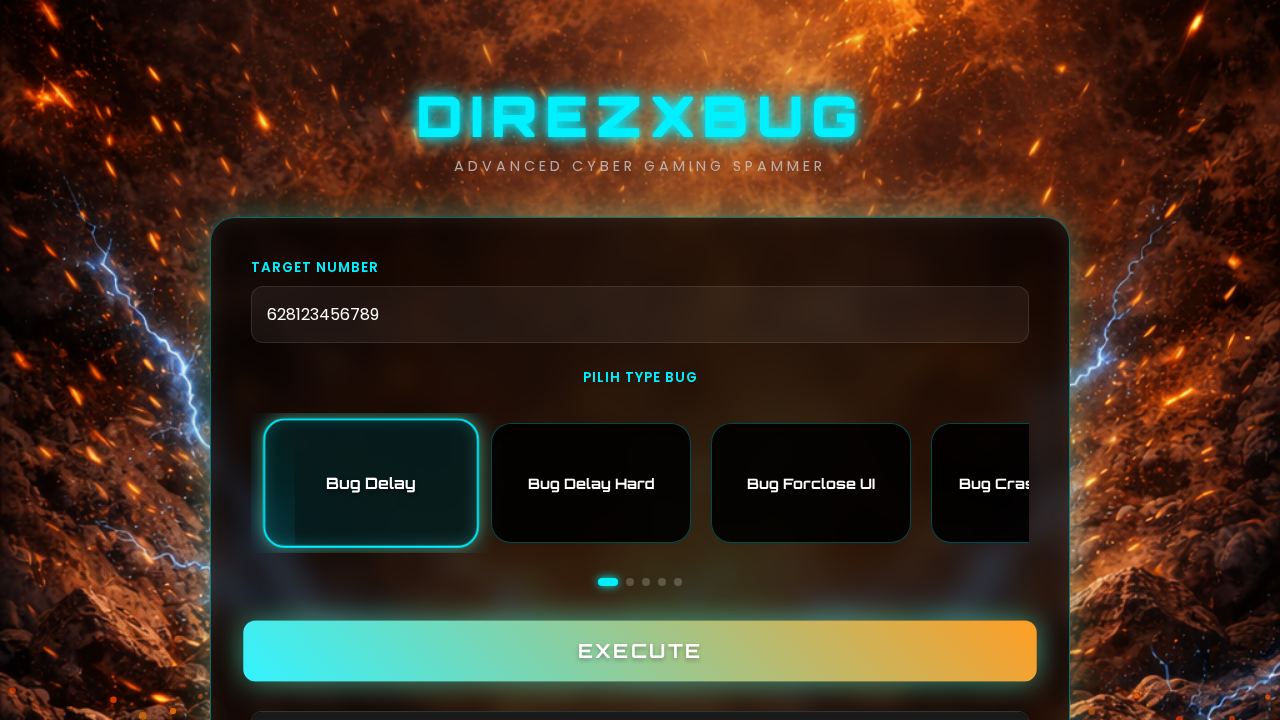
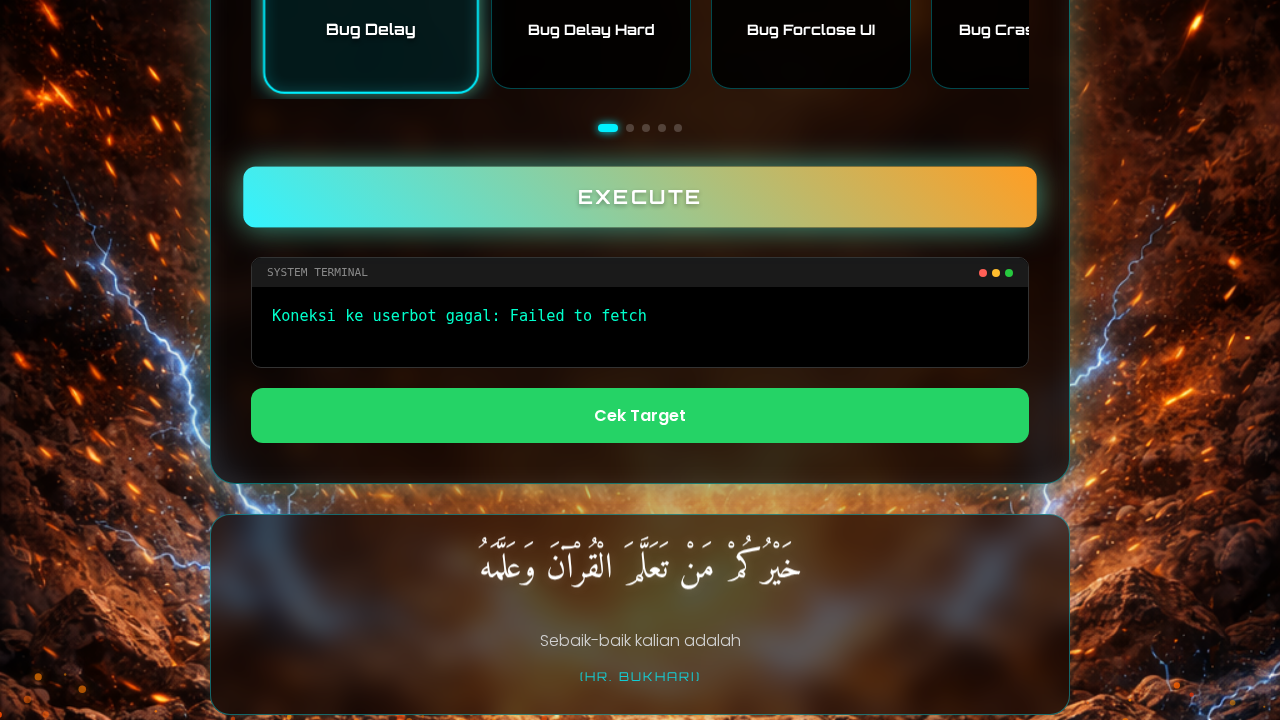
fix: resolve connectivity issues between frontend and backend

diff --git a/script.js b/script.js
@@ -151,38 +151,54 @@ bugCommands.spamdelay = bugCommands.force;
 // FUNCTION TETAP
 function kirim(){
   console.log("EXECUTE CLICKED");
-  const target = document.getElementById("target").value;
-  if (!target) return;
+  const targetInput = document.getElementById("target");
+  const target = targetInput ? targetInput.value.trim() : "";
+  const resultDiv = document.getElementById("result");
+
+  if (!target) {
+    if (resultDiv) resultDiv.innerText = "Masukkan Nomor Target!";
+    return;
+  }
 
   const bug = selectedBug;
   const commands = bugCommands[bug] || [];
 
-  console.log(target, commands);
+  const payload = {
+    target: target,
+    commands: commands
+  };
 
-  let fullResult = "";
-  commands.forEach(cmd => {
-    fullResult += `${cmd} ${target}\n`;
-  });
+  console.log("SENDING PAYLOAD:", payload);
+  if (resultDiv) resultDiv.innerText = "Sending request...";
 
   fetch("http://127.0.0.1:5000/execute",{
     method:"POST",
     headers:{"Content-Type":"application/json"},
-    body: JSON.stringify({
-      target: target,
-      commands: commands
-    })
+    body: JSON.stringify(payload)
   })
-  .then(res => res.json())
-  .then(() => {
-    document.getElementById("result").innerText = "Berhasil dikirim ke userbot";
+  .then(res => {
+    console.log("SERVER RESPONSE STATUS:", res.status);
+    if (!res.ok) {
+        throw new Error("HTTP error! status: " + res.status);
+    }
+    return res.json();
+  })
+  .then(data => {
+    console.log("SERVER DATA:", data);
+    if (resultDiv) {
+        resultDiv.innerText = data.message || data.status || "Berhasil dikirim ke userbot";
+    }
   })
   .catch(err => {
-    document.getElementById("result").innerText = "Koneksi ke userbot gagal";
+    console.error("FETCH ERROR:", err);
+    if (resultDiv) resultDiv.innerText = "Koneksi ke userbot gagal: " + err.message;
   });
 
   let wa = document.getElementById("waLink");
-  wa.style.display = "block";
-  wa.href = "https://wa.me/" + target;
+  if (wa) {
+    wa.style.display = "block";
+    wa.href = "https://wa.me/" + target;
+  }
 }
 
 // Hadith Random Feature

diff --git a/verify_execute.py b/verify_execute.py
@@ -18,13 +18,13 @@ async def run():
         page.on("console", lambda msg: console_logs.append(msg.text))
 
         await page.click(".execute-btn")
-        await asyncio.sleep(0.5)
+
+        # Check for error message in terminal
+        await page.wait_for_function('document.getElementById("result").innerText === "Masukkan Nomor Target!"')
 
         assert "EXECUTE CLICKED" in console_logs
-        # Since it returns early, there should NOT be a second log with target/commands
-        assert len([log for log in console_logs if "EXECUTE CLICKED" in log]) == 1
-        # Check that it didn't try to fetch or log more
-        assert len(console_logs) == 1
+        # Since it returns early, there should NOT be a second log with SENDING PAYLOAD
+        assert not any("SENDING PAYLOAD" in log for log in console_logs)
 
         # 2. Test successful execution
         # Mock the fetch
@@ -38,19 +38,18 @@ async def run():
         await page.click(".execute-btn")
 
         # Wait for terminal update
-        await page.wait_for_function('document.getElementById("result").innerText === "Berhasil dikirim ke userbot"')
+        await page.wait_for_function('document.getElementById("result").innerText.includes("Berhasil dikirim ke userbot") || document.getElementById("result").innerText === "ok"')
 
         assert "EXECUTE CLICKED" in console_logs
-        # Check for target/commands log (it's logged as multiple arguments, playwright might join them or we check for both)
-        # console.log(target, commands)
-        any_data_log = any("628123456789" in log for log in console_logs)
+        # Check for SENDING PAYLOAD log
+        any_data_log = any("SENDING PAYLOAD" in log and "628123456789" in log for log in console_logs)
         assert any_data_log
 
         # 3. Test failure execution
         await page.route("http://127.0.0.1:5000/execute", lambda route: route.abort("failed"))
         await page.click(".execute-btn")
 
-        await page.wait_for_function('document.getElementById("result").innerText === "Koneksi ke userbot gagal"')
+        await page.wait_for_function('document.getElementById("result").innerText.includes("Koneksi ke userbot gagal")')
 
         print("All Playwright tests passed!")
         await page.screenshot(path="verification.png")

diff --git a/verify_frontend.py b/verify_frontend.py
@@ -1,0 +1,38 @@
+import asyncio
+from playwright.async_api import async_playwright
+import os
+
+async def run():
+    async with async_playwright() as p:
+        browser = await p.chromium.launch()
+        page = await browser.new_page()
+
+        # Load the local index.html
+        path = os.path.abspath('index.html')
+        await page.goto(f'file://{path}')
+
+        # 1. Initial State
+        await page.screenshot(path='/home/jules/verification/initial_state.png', full_page=True)
+
+        # 2. Empty Target Error
+        await page.click('text=Execute')
+        await page.wait_for_timeout(500)
+        await page.screenshot(path='/home/jules/verification/empty_target_error.png', full_page=True)
+
+        # 3. Success execution (Mocked success response)
+        # We need to mock the fetch call because we don't have a real backend running
+        await page.route("**/execute", lambda route: route.fulfill(
+            status=200,
+            content_type="application/json",
+            body='{"status": "success", "message": "Berhasil dikirim ke userbot"}'
+        ))
+
+        await page.fill('#target', '628123456789')
+        await page.click('text=Execute')
+        await page.wait_for_timeout(1000)
+        await page.screenshot(path='/home/jules/verification/success_execution.png', full_page=True)
+
+        await browser.close()
+
+if __name__ == "__main__":
+    asyncio.run(run())
